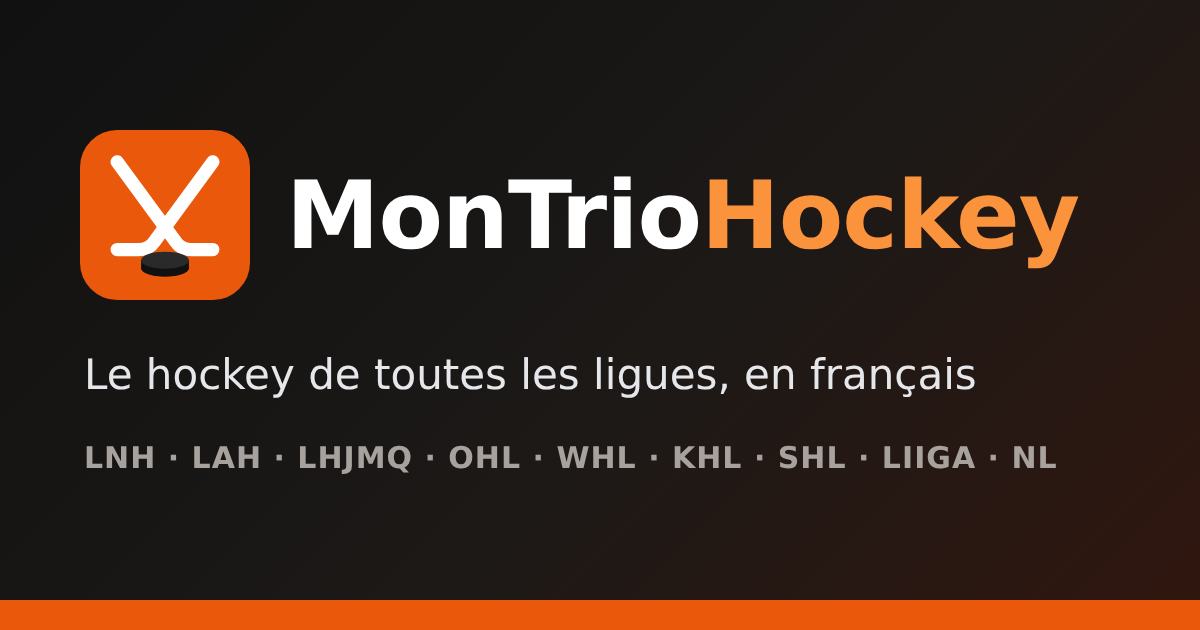
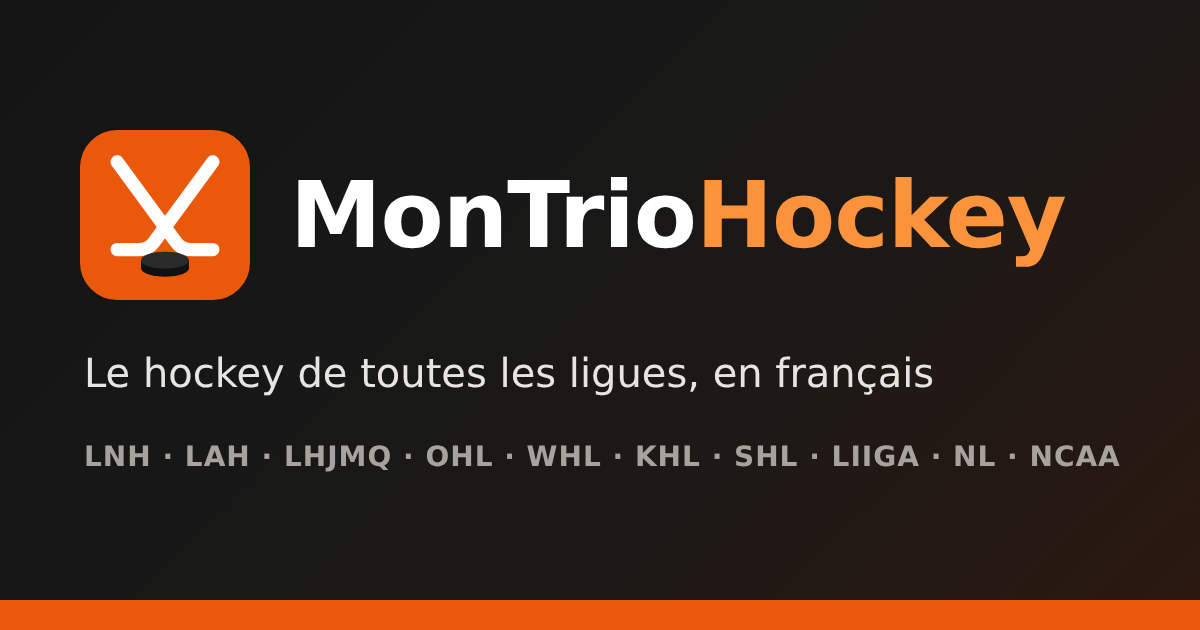
Aperçu des liens partagés : ajouter la NCAA (image et texte)
Claude-Session: https://claude.ai/code/session_01PUU9ohsf9zzoNt1wULvmRX

diff --git a/index.html b/index.html
@@ -28,9 +28,9 @@
   <meta property="og:locale" content="fr_CA">
   <meta property="og:site_name" content="MonTrioHockey">
   <meta property="og:title" content="MonTrioHockey · Le hockey de toutes les ligues, en français">
-  <meta property="og:description" content="Scores, classements et stats de la LNH aux juniors et à l'Europe. Suis tes joueurs préférés au même endroit.">
+  <meta property="og:description" content="Scores, classements et stats de la LNH, des juniors, de l'Europe et de la NCAA. Suis tes joueurs préférés au même endroit.">
   <meta property="og:url" content="https://wdaraiche84-del.github.io/hockey-favoris/">
-  <meta property="og:image" content="https://wdaraiche84-del.github.io/hockey-favoris/icones/apercu.png">
+  <meta property="og:image" content="https://wdaraiche84-del.github.io/hockey-favoris/icones/apercu.png?v=2">
   <meta property="og:image:width" content="1200">
   <meta property="og:image:height" content="630">
   <meta name="twitter:card" content="summary_large_image">
@@ -39,7 +39,7 @@
   <link rel="preconnect" href="https://fonts.googleapis.com">
   <link href="https://fonts.googleapis.com/css2?family=Barlow+Condensed:wght@600;700;800&family=Inter:wght@400;500;600;700&display=swap" rel="stylesheet">
   <!-- Le « ?v=… » oblige les navigateurs à prendre la nouvelle version après chaque changement -->
-  <link rel="stylesheet" href="style.css?v=34">
+  <link rel="stylesheet" href="style.css?v=35">
   <!-- Pour installer MonTrioHockey comme une application sur le téléphone -->
   <link rel="manifest" href="manifest.webmanifest">
   <meta name="theme-color" content="#111111">
@@ -280,10 +280,10 @@
     <article id="fiche" class="fiche" role="dialog" aria-modal="true"></article>
   </div>
 
-  <script src="config.js?v=34"></script>
-  <script src="donnees.js?v=34"></script>
-  <script src="app.js?v=34"></script>
-  <script src="plus.js?v=34"></script>
+  <script src="config.js?v=35"></script>
+  <script src="donnees.js?v=35"></script>
+  <script src="app.js?v=35"></script>
+  <script src="plus.js?v=35"></script>
   <div id="toasts" class="toasts" aria-live="polite"></div>
 </body>
 </html>

diff --git a/sw.js b/sw.js
@@ -6,8 +6,8 @@
 // ouvrir l'app même sans connexion (avec les dernières données vues).
 // Pour forcer une mise à jour chez tout le monde, change VERSION.
 // =============================================================
-const VERSION = "montrio-v34";
-const ESSENTIEL = ["./", "index.html", "style.css?v=34", "app.js?v=34", "plus.js?v=34", "config.js?v=34", "donnees.js?v=34", "manifest.webmanifest", "icones/icone-192.png"];
+const VERSION = "montrio-v35";
+const ESSENTIEL = ["./", "index.html", "style.css?v=35", "app.js?v=35", "plus.js?v=35", "config.js?v=35", "donnees.js?v=35", "manifest.webmanifest", "icones/icone-192.png"];
 
 self.addEventListener("install", (e) => {
   e.waitUntil(caches.open(VERSION).then((c) => c.addAll(ESSENTIEL)).then(() => self.skipWaiting()));
